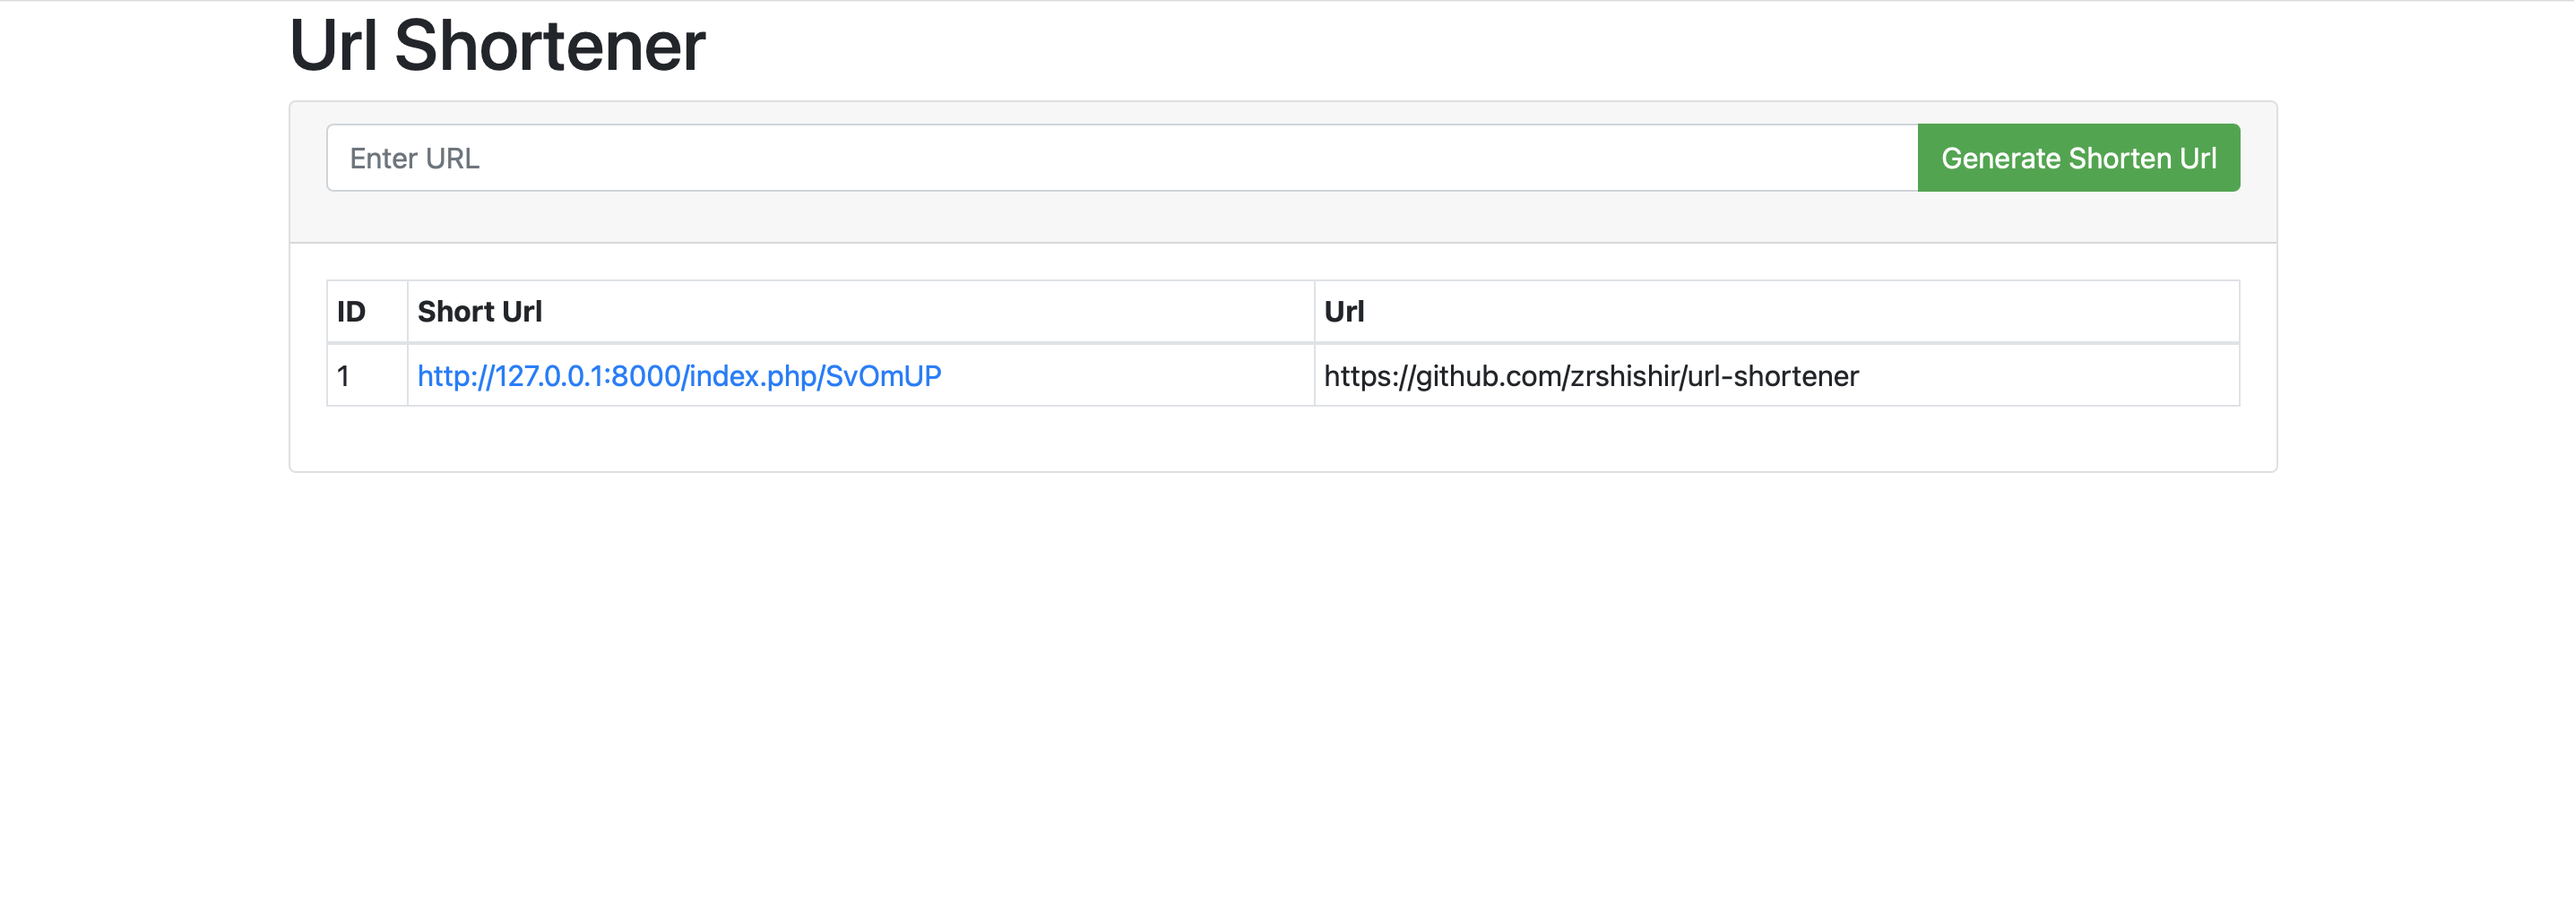
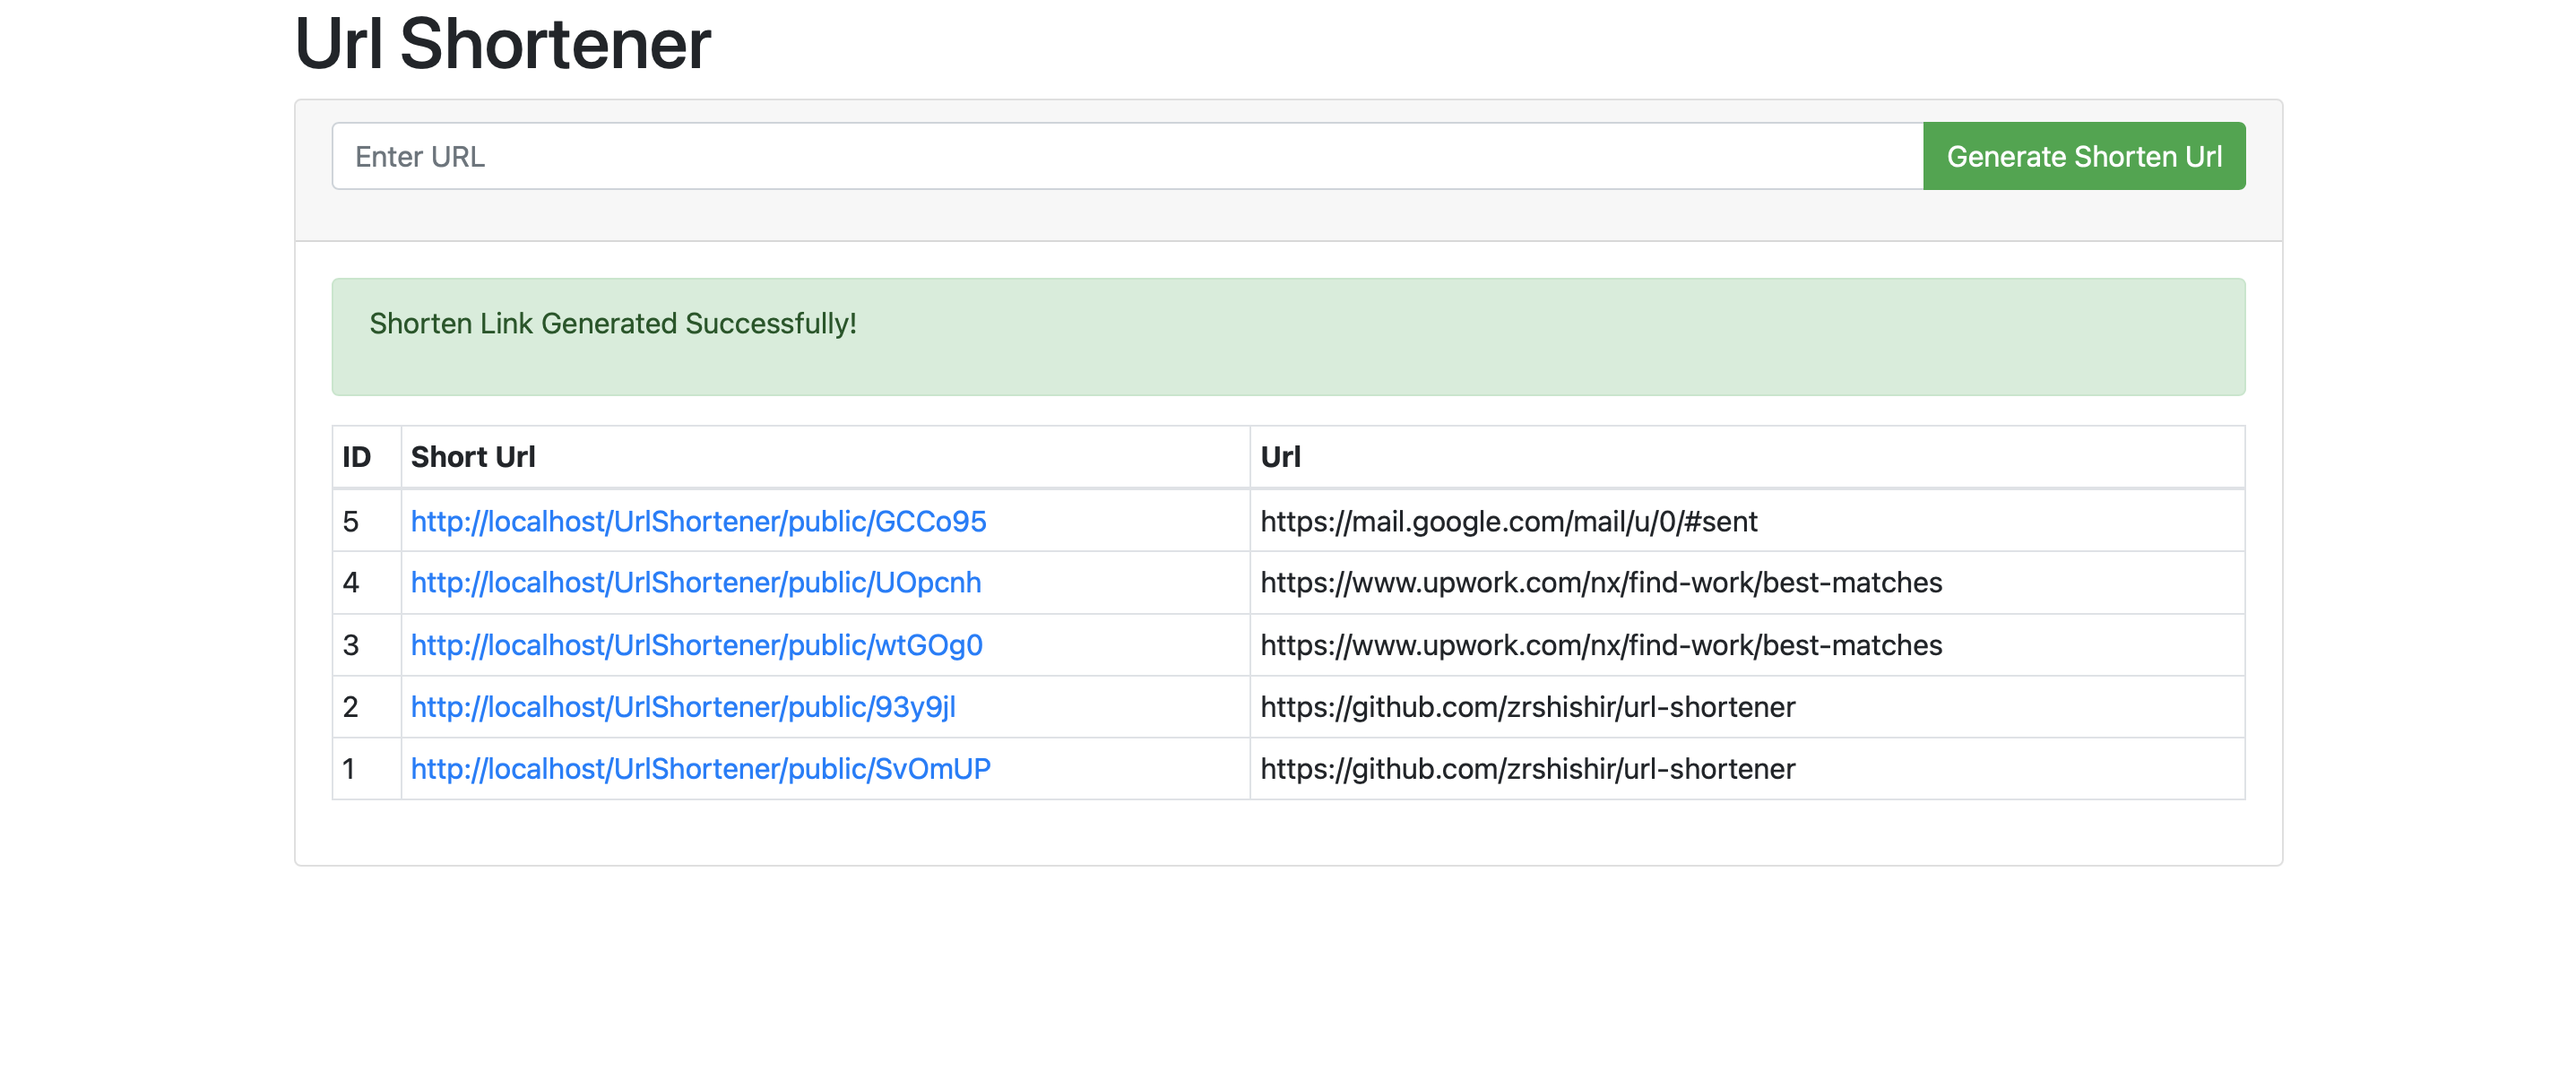
readme file edit

diff --git a/routes/web.php b/routes/web.php
@@ -13,7 +13,7 @@ use Illuminate\Support\Facades\Route;
 |
 */
 
-Route::get('generate-shorten-url', 'App\Http\Controllers\ShortenUrlController@index');
+Route::get('/', 'App\Http\Controllers\ShortenUrlController@index');
 Route::post('generate-shorten-url', 'App\Http\Controllers\ShortenUrlController@store')->name('generate.shorten.url.post');
 
 Route::get('{code}', 'App\Http\Controllers\ShortenUrlController@shortenUrl')->name('shorten.url');

diff --git a/app/Http/Controllers/ShortenUrlController.php b/app/Http/Controllers/ShortenUrlController.php
@@ -36,7 +36,7 @@ class ShortenUrlController extends Controller
 
         ShortenUrl::create($input);
 
-        return redirect('generate-shorten-url')
+        return redirect('/')
             ->with('success', 'Shorten Link Generated Successfully!');
     }
 

diff --git a/README.md b/README.md
@@ -58,64 +58,37 @@ $ composer install
          DB_PASSWORD=your_password
     ````
   if it is MAMP then add DB_SOCKET also
-    ``DB_SOCKET=/Applications/MAMP/tmp/mysql/mysql.sock``
+    ```DB_SOCKET=/Applications/MAMP/tmp/mysql/mysql.sock```
 
 - Migrate the application
 
   ```$ php artisan migrate```
 
-- Install laravel passport
-
-  ```$ php artisan passport:install```
-
-- Seed Database
-
-  ```$ php artisan db:seed```
-
-
-- Install node modules
-
-  ```$ npm install```
-
-
 ### Run the application
 
 ```$ php artisan serve```
 
-
-## Built With
-* [Laravel](https://laravel.com) - The PHP framework for building the API endpoints needed for the application
-* [Vue](https://vuejs.org) - The Progressive JavaScript Framework for building interactive interfaces
-
-
-##### Installation
-The installation is pretty simple. You will have php version 7.3+ and Vue js version 3.0 thats it. Below, the details installation is being described.
-
-1.LEMP stack installation:
-    - Make ready your linux with nginx, mysql and php. You can follow the link [LEMP stack installation on ubunut 18.04](https://www.digitalocean.com/community/tutorials/how-to-install-linux-nginx-mysql-php-lemp-stack-ubuntu-18-04)
-    - Create a database on your phpmyadmin or mysql
-    - Import the url-shortener.sql (it is in the root directory) file into your database.
-    - Set your database credentials in DatabaseConnection.php file  which is in app/controller directory and edit $host, $user, $password and $database with you own credentials.
-    - Now open your browser, write your domain name and execute the index.php file which is in your project root directory.
-
-
-##### Project features:
-    - Url shortening task
-
-
-##### Done Tasks:
-1. Create a MySQL DB table with the following requirements and a frontend submission form for storing the data. The - field/Column list are:
-    - id (bigint 20) ai
-    - code (varchar 255) 
-    - link (varchar 255) *
-    - entry_at (date)
-    - entry_by (init 10)
-
-2. * marked columns must submit through the mentioned frontend form.
+### Project features:
+- Url shortening task
+- Create a form, that allows adding URL and system generates short unique URL:
+  - The format of generated URL: example.com/[hash];
+  - The short URL must be a valid URL;
+  - The URL must be shortened till 6 symbols hash, which contains alphanumeric symbols;
+  - Algorithm must recognize duplicate URL and instead of generating new short URL, show previously
+  created;
+  - Upon submit, the URL should be checked using the „Google Safe Browsing“ API
+  (https://developers.google.com/safe-browsing/v4/lookup-api). Or any other API with the same
+  function. 
+- After implementation, upon opening the short URL, the user must be redirected to the original URL.
+- Advantage, if functionality could work from folder (e.g.: example.com/something/[hash]).
+- For implementation use Laravel and Vue.js.
 
 #### Screenshots
 Main Page
 ![Main page](/resources/image/home_page.png)
 
+### Built With
+* [Laravel](https://laravel.com) - The PHP framework for building the API endpoints needed for the application
+* [Vue](https://vuejs.org) - The Progressive JavaScript Framework for building interactive interfaces
 
 #### NB: If you face any issue, please inform me. 
